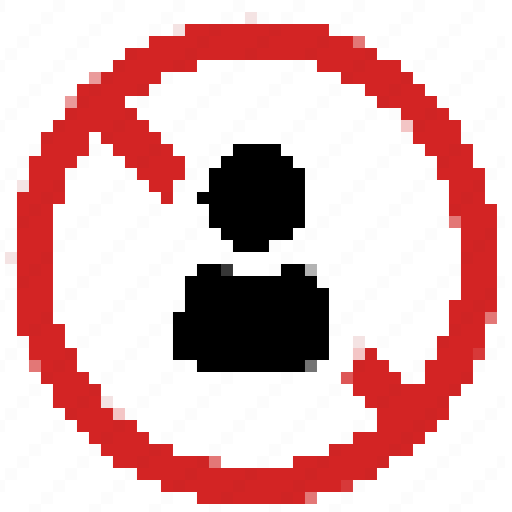
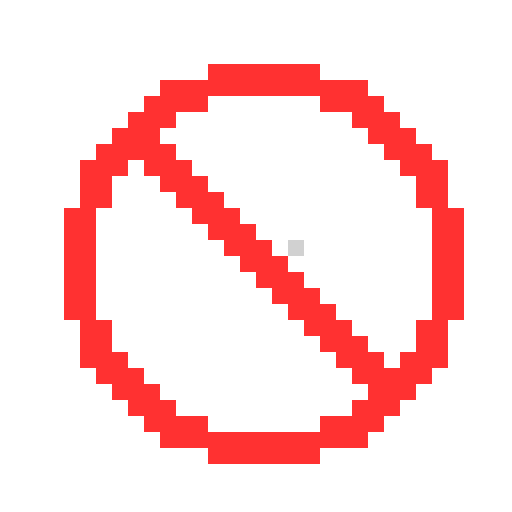
Add friends and block buttons

diff --git a/front/src/pages/FriendProfile/FriendProfile.tsx b/front/src/pages/FriendProfile/FriendProfile.tsx
@@ -56,6 +56,9 @@ const FriendProfile = () => {
     const [userInfo, setUserInfo] = useState<userModel>(userInfoInit);
     const [isFetched, setIsFetched] = useState(false);
     const [isUser, setIsUser] = useState(true);
+	const [myFriendList, setMyFriendList] = useState<userModel[]>([]);
+	const [myBlockedList, setMyBlockedList] = useState<userModel[]>([]);
+	const isUserFriend = userInfo.friends.some((friend) => friend.name === userData.userName.userName);
     //let params = useParams();
 
     //console.log("name:     ", userInfo.name);
@@ -90,6 +93,49 @@ const FriendProfile = () => {
             };
             fetchFriendData();
         }, [friendName]);
+
+		useEffect(() => {
+			// Fonction asynchrone pour récupérer la liste d'amis
+			const fetchFriends = async () => {
+			  try {
+				const name = userData.userName.userName; // Remplacez par le nom de l'utilisateur que vous souhaitez obtenir
+				const data = await backFunctions.getFriend(name); // Appel de la fonction pour obtenir la liste d'amis
+				// const data = await response.json(); // Extraction des données de la réponse
+		
+				// Vérifiez si la réponse a réussi et que les données sont au format attendu
+				if (/* response.ok &&  */Array.isArray(data))
+				  setMyFriendList(data); // Mettez à jour l'état avec la liste d'amis
+				else
+				  console.error('La requête a échoué ou les données ne sont pas au format attendu.');
+				}
+			  catch (error) {
+				console.error('Une erreur s\'est produite lors de la récupération de la liste d\'amis.', error);
+			}
+		}
+		fetchFriends();
+			}, []);
+
+		useEffect(() => {
+			// Fonction asynchrone pour récupérer la liste d'amis
+			const fetchBlocked = async () => {
+			  try {
+				const name = userData.userName.userName; // Remplacez par le nom de l'utilisateur que vous souhaitez obtenir
+				const data = await backFunctions.getBlockedUser(name); // Appel de la fonction pour obtenir la liste d'amis
+				// const data = await response.json(); // Extraction des données de la réponse
+		
+				// Vérifiez si la réponse a réussi et que les données sont au format attendu
+				if (/* response.ok &&  */Array.isArray(data))
+				  setMyBlockedList(data); // Mettez à jour l'état avec la liste d'amis
+				else
+				  console.error('La requête a échoué ou les données ne sont pas au format attendu.');
+				}
+			  catch (error) {
+				console.error('Une erreur s\'est produite lors de la récupération de la liste d\'amis.', error);
+			}
+		}
+		fetchBlocked();
+			}, []);
+
         
 		return (
 		<div className="profile">
@@ -101,8 +147,16 @@ const FriendProfile = () => {
 							<h1 className="info">online/offline</h1>
 							<h1 className="info">{userInfo.rank ? `Rank #${userInfo.rank}` : "#Rank?"}</h1>
 						</div>
-							<div className="add_friend_button" onClick={() => backFunctions.addFriend(userData.userName.userName, userInfo.name, userInfo)} ></div>
-							<div className="block_friend_button" onClick={() => backFunctions.blockUser(userData.userName.userName, userInfo.name, userInfo)} ></div>
+						{myFriendList.some((friend) => userInfo.id === friend.id) ? (
+								<div className="remove_friend_button" onClick={() => {backFunctions.removeFriend(userData.userName.userName, userInfo.name)}} ></div>
+							) : (
+								<div className="add_friend_button" onClick={() => backFunctions.addFriend(userData.userName.userName, userInfo.name, userInfo)} ></div>
+						)}
+						{myBlockedList.some((blocked) => userInfo.id === blocked.id) ? (
+								<div className="unblock_button" onClick={() => backFunctions.removeBlock(userData.userName.userName, userInfo.name)} ></div>
+							) : (
+								<div className="block_button" onClick={() => backFunctions.blockUser(userData.userName.userName, userInfo.name, userInfo)} ></div>
+						)}
 				</div>
 			</div>
 			<div className="centered_div_container">

diff --git a/front/src/context/userContent.tsx b/front/src/context/userContent.tsx
@@ -55,6 +55,10 @@ export type RoomID = {
 	roomID: string;
 };
 
+export type UserID = {
+	userId: number;
+};
+
 type UserContextType = {
 	userName: UserName;
 	setUserName: React.Dispatch<React.SetStateAction<UserName>>;
@@ -80,6 +84,8 @@ type UserContextType = {
 	setScore: React.Dispatch<React.SetStateAction<Score>>;
 	roomID: RoomID;
 	setRoomID: React.Dispatch<React.SetStateAction<RoomID>>;
+	userId: UserID;
+	setUserId: React.Dispatch<React.SetStateAction<UserID>>;
 };
 
 export const UserContext = createContext({} as UserContextType);
@@ -98,6 +104,7 @@ export const UserContextProvider = ({children}: UserContextProviderProps) => {
 	const [play, setPlay] = useState<Play>({play: 0});
 	const [score, setScore] = useState<Score>({score: 0});
 	const [roomID, setRoomID] = useState<RoomID>({roomID: ''});
+	const [userId, setUserId] = useState<UserID>({userId: 0});
 
 	useEffect(() => {
 		const userInfos = getUserInfo(navigate);
@@ -115,6 +122,7 @@ export const UserContextProvider = ({children}: UserContextProviderProps) => {
 			setPlay({play: rhs.gamesPlayed});
 			setScore({score: rhs.score});
 			setRoomID({roomID: rhs.roomID});
+			setUserId({userId: rhs.id});
 		});
 	}, [navigate]);
 
@@ -145,6 +153,8 @@ export const UserContextProvider = ({children}: UserContextProviderProps) => {
 				setScore,
 				roomID,
 				setRoomID,
+				userId,
+				setUserId,
 			}}
 		>
 			{children}

diff --git a/front/src/pages/FriendProfile/FriendProfile.css b/front/src/pages/FriendProfile/FriendProfile.css
@@ -345,7 +345,7 @@
 }
 
 .add_friend_button {
-  background-image: url(../../AddUserPixel.png);
+  background-image: url(../../AddFriendPixel.png);
   background-position: center;
   background-repeat: no-repeat;
   background-size: cover;
@@ -359,13 +359,43 @@
   cursor: pointer;
 }
 
-.block_friend_button {
-  background-image: url(../../BlockUserPixel.png);
+.remove_friend_button {
+  background-image: url(../../RemoveFriendPixel.png);
   background-position: center;
   background-repeat: no-repeat;
   background-size: cover;
   width: 5vh;
   height: 5vh;
+  position: relative;
+  display: flex;
+  align-items: center;
+  justify-content: center;
+  align-self: center;
+  cursor: pointer;
+}
+
+.block_button {
+  background-image: url(../../BlockUserPixel.png);
+  background-position: center;
+  background-repeat: no-repeat;
+  background-size: cover;
+  width: 6vh;
+  height: 6vh;
+  position: relative;
+  display: flex;
+  align-items: center;
+  justify-content: center;
+  align-self: center;
+  cursor: pointer;
+}
+
+.unblock_button {
+  background-image: url(../../UnblockUserPixel.png);
+  background-position: center;
+  background-repeat: no-repeat;
+  background-size: cover;
+  width: 6vh;
+  height: 6vh;
   position: relative;
   display: flex;
   align-items: center;
